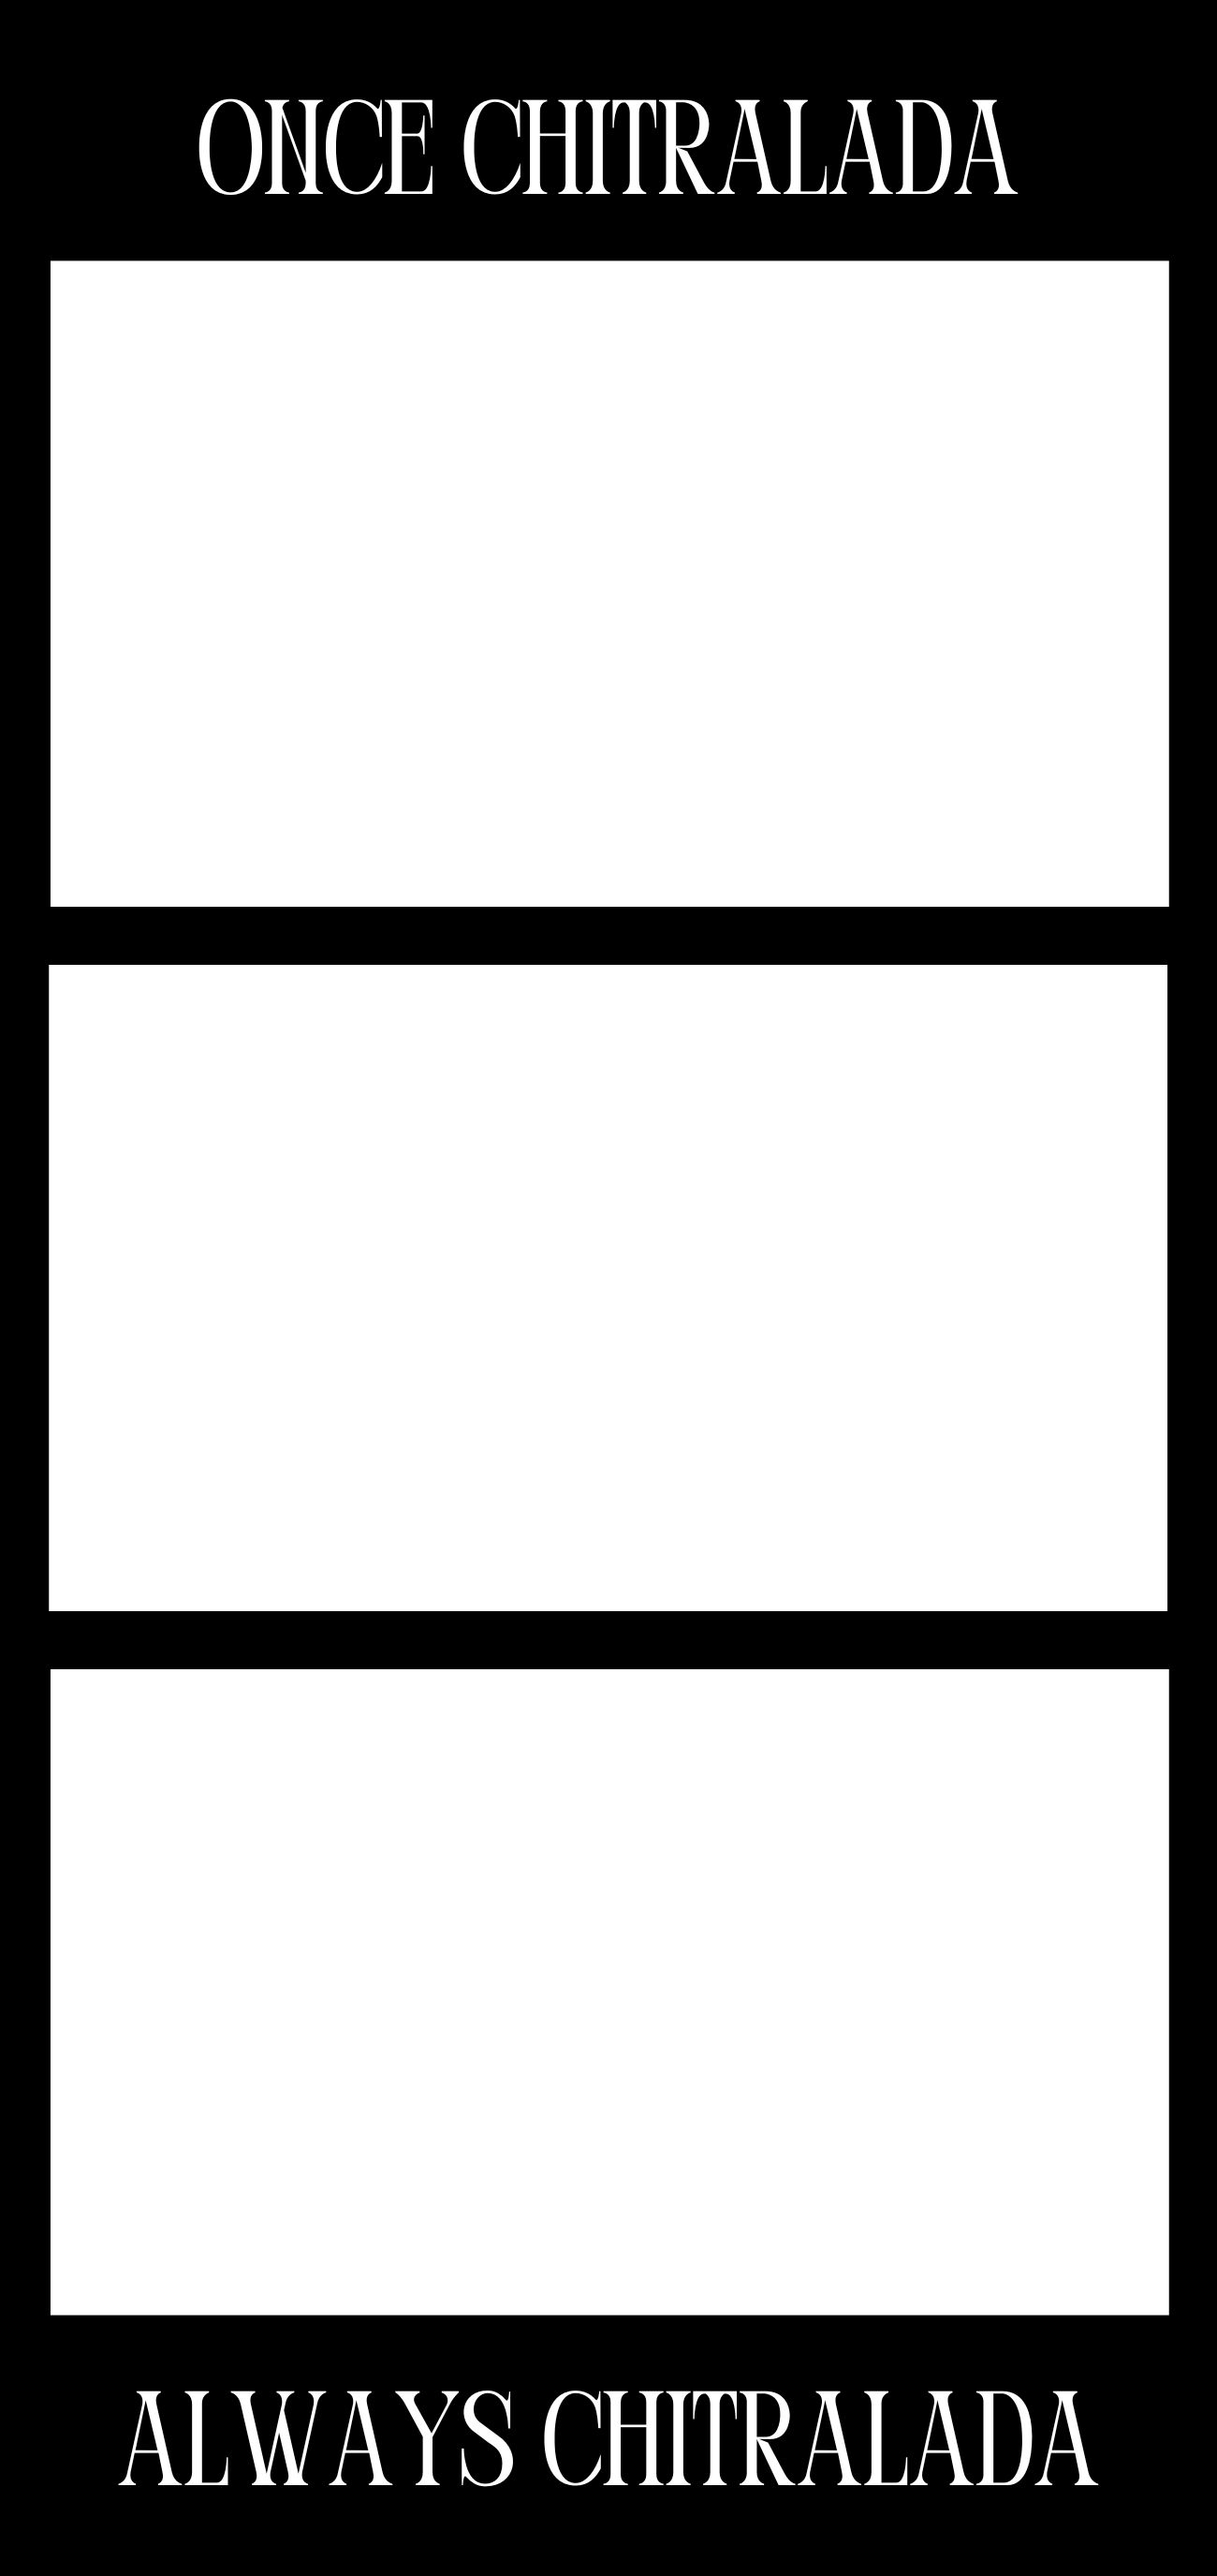
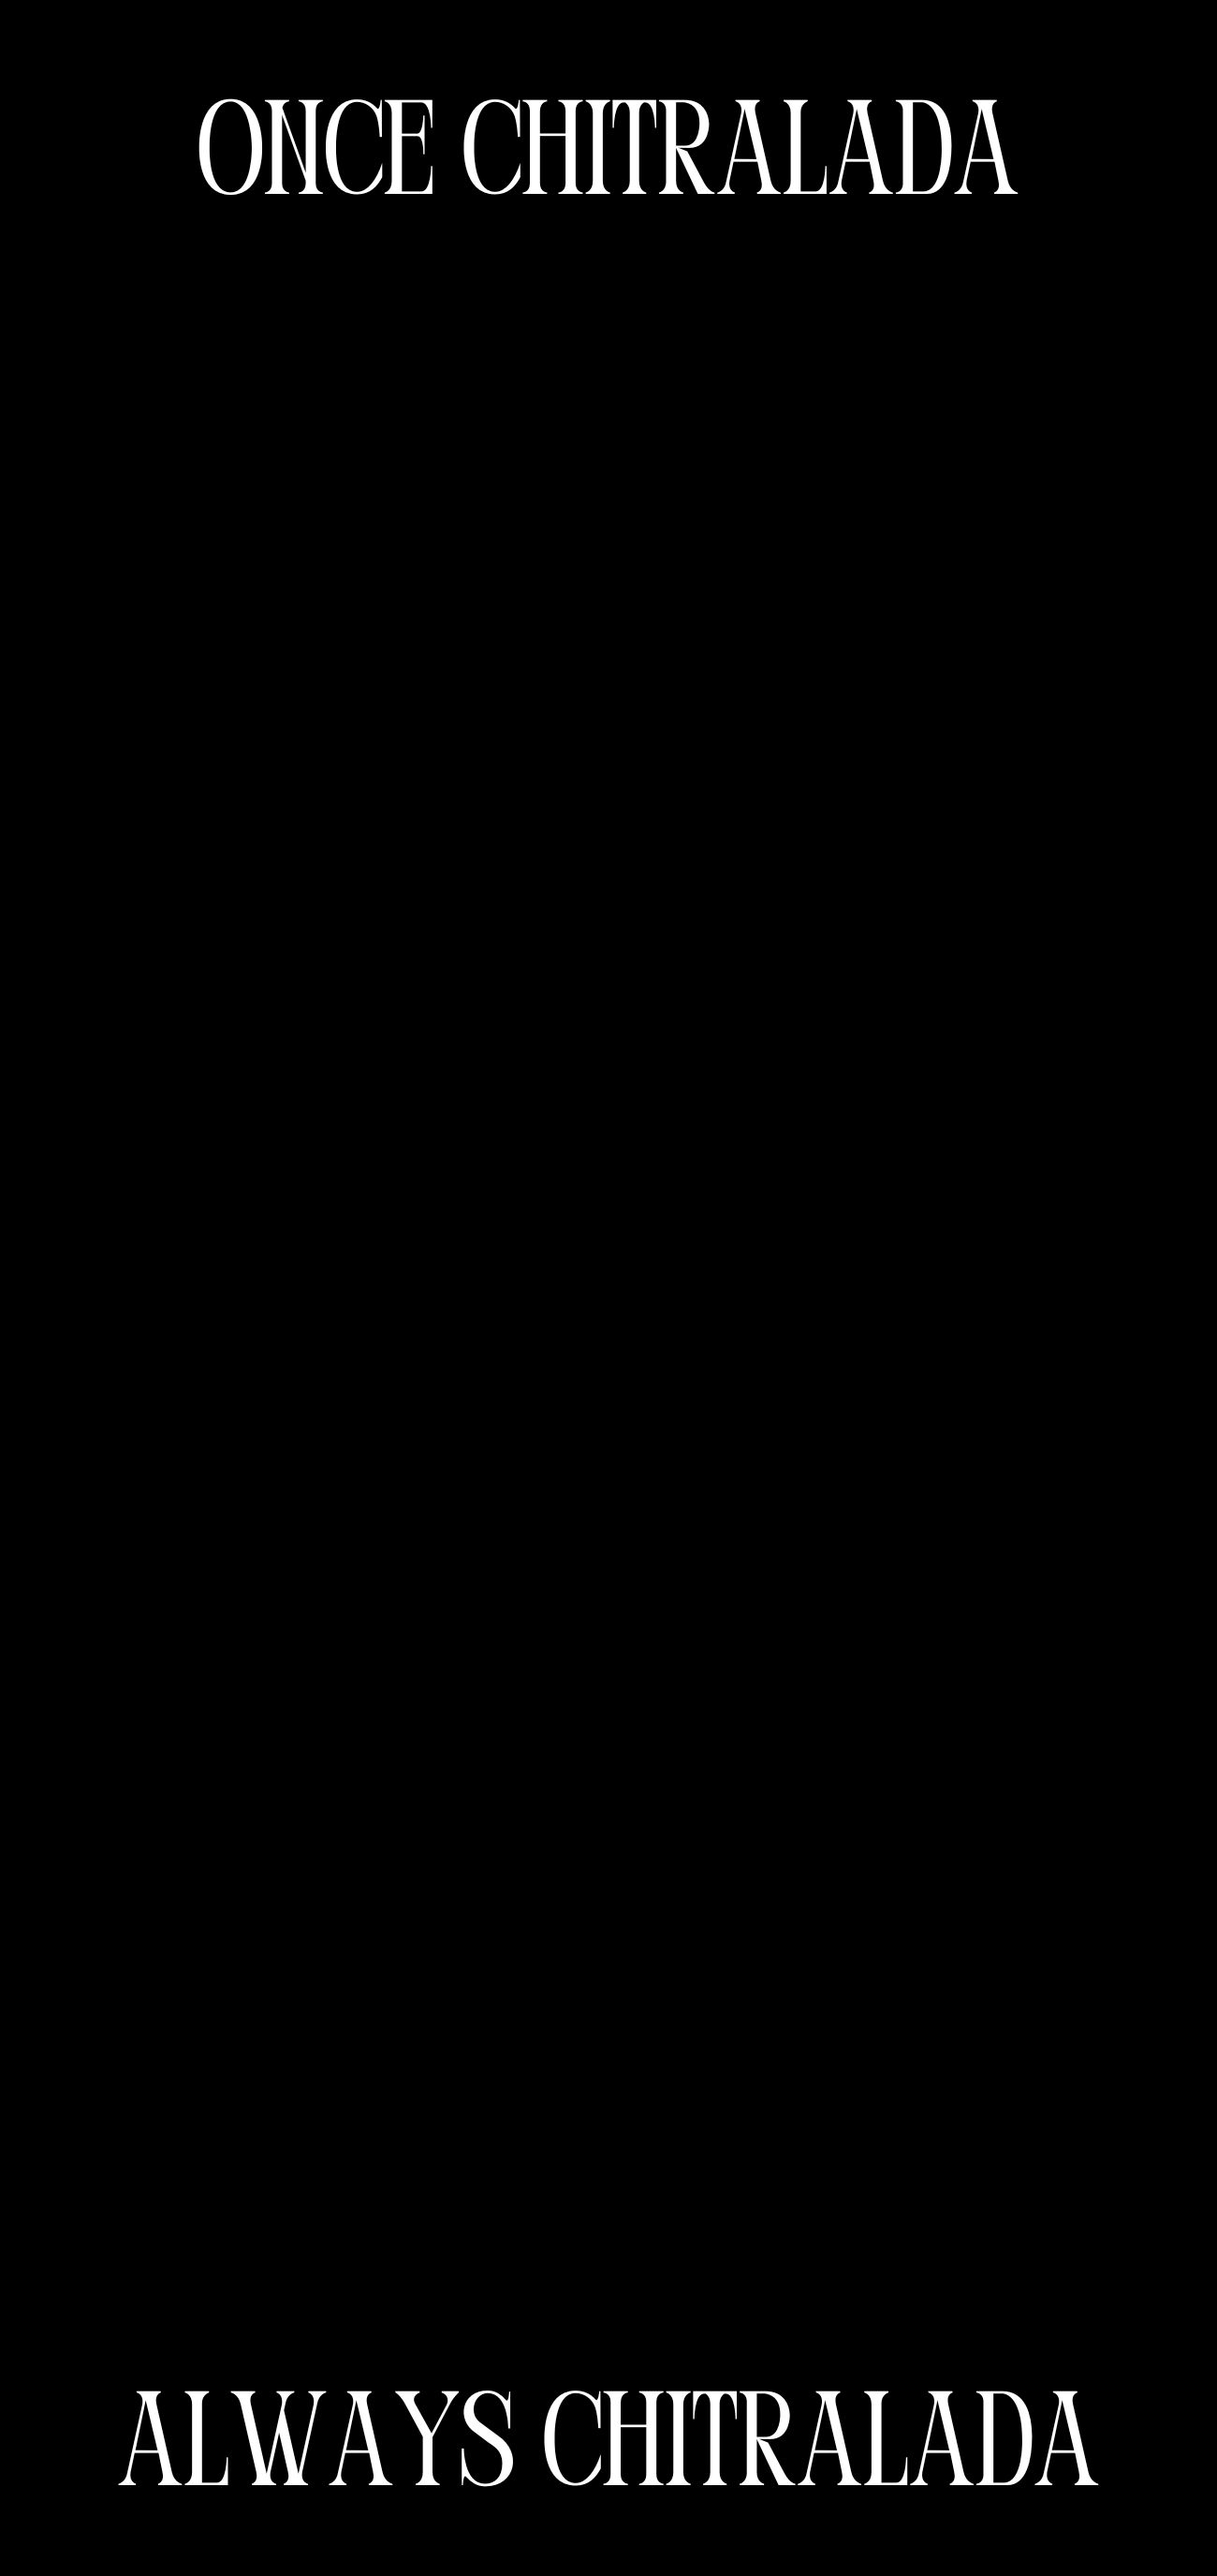
invert completed

diff --git a/app/photobooth/page.tsx b/app/photobooth/page.tsx
@@ -15,9 +15,8 @@ export default function PhotoboothPage() {
   const [template, setTemplate] = useState<string>("");
 
   const templates = [
-    { name: "/photobooth/cd-white.jpg" },
-    { name: "/photobooth/cd-black.jpg" },
-    { name: "/photobooth/sing.jpg" },
+    { name: "/photobooth/cd-white-ex.jpg", src: "/photobooth/cd-white.jpg" },
+    { name: "/photobooth/cd-black-ex.jpg", src: "/photobooth/cd-black.jpg" },
   ];
 
   useEffect(() => {
@@ -26,92 +25,90 @@ export default function PhotoboothPage() {
     }
   }, [photos]);
 
-  const createCombinedImage = async (
-    images: string[],
-    bgSrc: string,
-  ): Promise<string> => {
-    const canvas = document.createElement("canvas");
-    const ctx = canvas.getContext("2d");
-    if (!ctx) return "";
+ const createCombinedImage = async (
+  images: string[],
+  bgSrc: string,
+): Promise<string> => {
+  const canvas = document.createElement("canvas");
+  const ctx = canvas.getContext("2d");
+  if (!ctx) return "";
 
-    canvas.width = 1300;
-    canvas.height = 2750;
+  canvas.width = 1300;
+  canvas.height = 2750;
 
-    const loadImage = (src: string): Promise<HTMLImageElement> => {
-      return new Promise((resolve, reject) => {
-        const img = new Image();
-        img.crossOrigin = "anonymous";
-        img.onload = () => resolve(img);
-        img.onerror = reject;
-        img.src = src;
-      });
-    };
-
-    try {
-      const [bgImg, ...imgObjects] = await Promise.all([
-        loadImage(bgSrc),
-        ...images.map(loadImage),
-      ]);
-
-      ctx.drawImage(bgImg, 0, 0, canvas.width, canvas.height);
-
-      const targetW = 1195;
-      const targetH = 690;
-      const marginTop = 280;
-      const spacing = 60;
-      const borderSize = 0;
-
-      ctx.imageSmoothingEnabled = true;
-      ctx.imageSmoothingQuality = "high";
-
-      imgObjects.forEach((img, i) => {
-        const x = (canvas.width - targetW) / 2;
-        const y = marginTop + i * (targetH + spacing);
-
-        ctx.save();
-
-        ctx.fillStyle = "#FFFFFF";
-        ctx.fillRect(x, y, targetW, targetH);
-        ctx.restore();
-
-        const drawW = targetW - borderSize * 2;
-        const drawH = targetH - borderSize * 2;
-
-        const imgRatio = img.width / img.height;
-        const targetRatio = drawW / drawH;
-        let sx, sy, sWidth, sHeight;
-
-        if (imgRatio > targetRatio) {
-          sHeight = img.height;
-          sWidth = img.height * targetRatio;
-          sx = (img.width - sWidth) / 2;
-          sy = 0;
-        } else {
-          sWidth = img.width;
-          sHeight = img.width / targetRatio;
-          sx = 0;
-          sy = (img.height - sHeight) / 2;
-        }
-
-        ctx.drawImage(
-          img,
-          sx,
-          sy,
-          sWidth,
-          sHeight,
-          x + borderSize,
-          y + borderSize,
-          drawW,
-          drawH,
-        );
-      });
-
-      return canvas.toDataURL("image/jpeg", 0.95);
-    } catch (error) {
-      console.error("Error loading images:", error);
-      return "";
-    }
+  const loadImage = (src: string): Promise<HTMLImageElement> => {
+    return new Promise((resolve, reject) => {
+      const img = new Image();
+      img.crossOrigin = "anonymous";
+      img.onload = () => resolve(img);
+      img.onerror = reject;
+      img.src = src;
+    });
   };
+
+  try {
+    const [bgImg, ...imgObjects] = await Promise.all([
+      loadImage(bgSrc),
+      ...images.map(loadImage),
+    ]);
+
+    ctx.drawImage(bgImg, 0, 0, canvas.width, canvas.height);
+
+    const targetW = 1195;
+    const targetH = 690;
+    const marginTop = 280;
+    const spacing = 60;
+
+    ctx.imageSmoothingEnabled = true;
+    ctx.imageSmoothingQuality = "high";
+
+    imgObjects.forEach((img, i) => {
+      const x = (canvas.width - targetW) / 2;
+      const y = marginTop + i * (targetH + spacing);
+
+      const imgRatio = img.width / img.height;
+      const targetRatio = targetW / targetH;
+      let sx, sy, sWidth, sHeight;
+
+      if (imgRatio > targetRatio) {
+        sWidth = img.height * targetRatio;
+        sHeight = img.height;
+        sx = (img.width - sWidth) / 2;
+        sy = 0;
+      } else {
+        sWidth = img.width;
+        sHeight = img.width / targetRatio;
+        sx = 0;
+        sy = (img.height - sHeight) / 2;
+      }
+
+      ctx.save();
+      
+      ctx.translate(x + targetW / 2, y + targetH / 2);
+
+      ctx.scale(-1, 1);
+      
+      ctx.drawImage(
+        img,
+        sx,
+        sy,
+        sWidth,
+        sHeight,
+        -targetW / 2, 
+        -targetH / 2,
+        targetW,
+        targetH,
+      );
+
+      ctx.restore();
+    });
+
+    return canvas.toDataURL("image/jpeg", 0.95);
+  } catch (error) {
+    console.error("Error loading images:", error);
+    return "";
+  }
+};
 
   const cameraStreamRef = useRef<MediaStream | null>(null);
 
@@ -223,8 +220,8 @@ export default function PhotoboothPage() {
             <div className="flex flex-cols-3 justify-around gap-10">
               {templates.map((item) => (
                 <div
-                  key={item.name}
-                  onClick={() => setTemplate(item.name)}
+                  key={item.src}
+                  onClick={() => setTemplate(item.src)}
                   className="group cursor-pointer flex flex-col items-center"
                 >
                   <div className="relative overflow-hidden border border-zinc-200">

diff --git a/app/photobooth/components/CameraView.tsx b/app/photobooth/components/CameraView.tsx
@@ -15,12 +15,10 @@ export default function CameraView({ isCapturing, onCapture, maxPhotos, currentC
   const [isWaiting, setIsWaiting] = useState(false);
   const [showFlash, setShowFlash] = useState(false);
 
-  // --- ส่วนที่เพิ่ม: โหลดเสียงแยกตามหมายเลข ---
   const audioNumbers = useRef<Record<number, HTMLAudioElement>>({});
   const shutterSound = useRef<HTMLAudioElement | null>(null);
 
   useEffect(() => {
-    // โหลดเสียง 1, 2, 3 เตรียมไว้
     [1, 2, 3].forEach((num) => {
       audioNumbers.current[num] = new Audio(`/sounds/${num}.mp3`);
     });
@@ -57,7 +55,7 @@ export default function CameraView({ isCapturing, onCapture, maxPhotos, currentC
 
     let timer = 5;
     setCountdown(timer);
-    playNumberSound(timer); // เล่นเสียงเลข 3 ทันทีที่เริ่ม
+    playNumberSound(timer);
 
     const interval = setInterval(() => {
       timer--;
@@ -67,14 +65,14 @@ export default function CameraView({ isCapturing, onCapture, maxPhotos, currentC
         executeCapture();
       } else {
         setCountdown(timer);
-        playNumberSound(timer); // เล่นเสียงตามเลขที่เปลี่ยนไป (2 และ 1)
+        playNumberSound(timer);
       }
     }, 1000);
   };
 
   const executeCapture = () => {
     setShowFlash(true);
-    playShutter(); // เสียงแชะ!
+    playShutter();
     
     const imageSrc = webcamRef.current?.getScreenshot();
     if (imageSrc) {
@@ -94,7 +92,6 @@ export default function CameraView({ isCapturing, onCapture, maxPhotos, currentC
         className="w-full h-full object-cover scale-x-[-1]"
       />
 
-      {/* UI ส่วนแสดงผลเหมือนเดิม */}
       {showFlash && (
         <div className="absolute inset-0 bg-white animate-out fade-out duration-300 z-50" />
       )}

diff --git a/app/photobooth/components/PhotoSript.tsx b/app/photobooth/components/PhotoSript.tsx
@@ -8,7 +8,7 @@ export default function PhotoStrip({ photos }: Props) {
       {[0, 1, 2].map((index) => (
         <div key={index} className="bg-zinc-100 aspect-[3/2] flex items-center justify-center overflow-hidden">
           {photos[index] ? (
-            <img src={photos[index]} alt={`Capture ${index}`} className="w-full h-full object-cover" />
+            <img src={photos[index]} alt={`Capture ${index}`} className="w-full h-full object-cover scale-x-[-1]" />
           ) : (
             <span className="text-zinc-400 text-sm">กำลังรอภาพที่ {index + 1}...</span>
           )}
